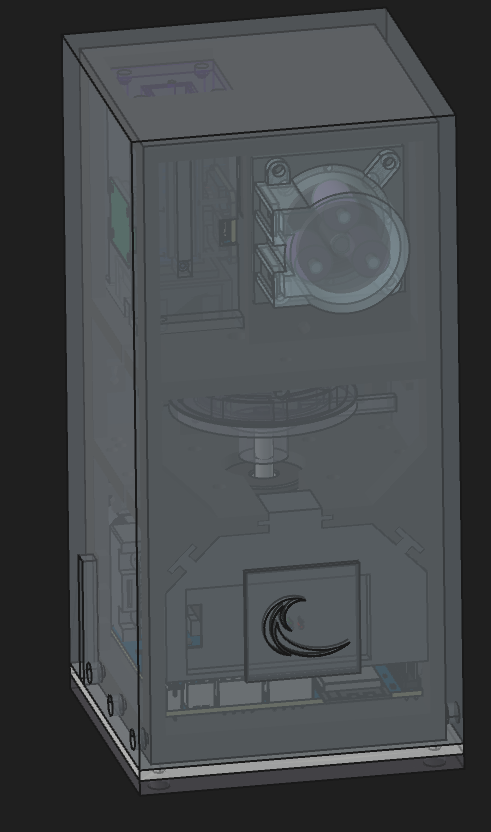
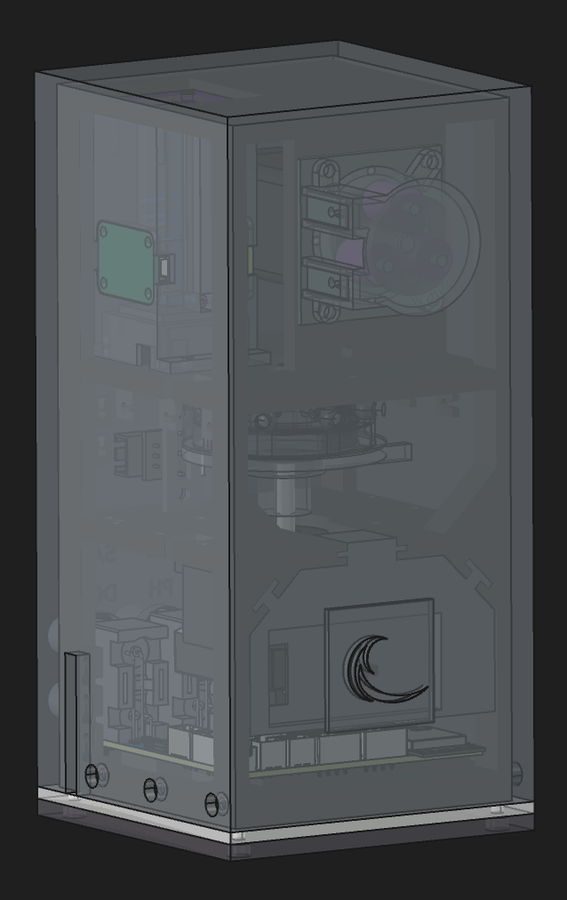
feat: swap in the new Wavie enclosure render
Replaces assets/wavie-hero.png with the updated CAD render showing the
internals through the enclosure and the logo on the front panel. Trimmed
to the product with a small margin and served at higher resolution
(567x900, was 491x832). Used in both places it appears — the hero and
the Wavie ecosystem card — and versioned to defeat image caching.

diff --git a/index.html b/index.html
@@ -314,7 +314,7 @@
         </p>
       </div>
       <div class="fade" style="transition-delay:.12s">
-        <img src="assets/wavie-hero.png" alt="Wavie automated reef tester" class="showcase" />
+        <img src="assets/wavie-hero.png?v=2" alt="Wavie automated reef tester" class="showcase" />
       </div>
     </div>
   </section>
@@ -661,7 +661,7 @@
         <div class="card featured p-8 flex flex-col hcard-wide">
           <div class="mb-5"><span class="badge-beta">Beta Waitlist Open</span></div>
           <div class="product-img mb-6"
-               style="background-image:url('assets/wavie-hero.png')"></div>
+               style="background-image:url('assets/wavie-hero.png?v=2')"></div>
           <h3 class="text-2xl font-bold mb-2">Wavie</h3>
           <p class="text-gray-400 text-sm leading-relaxed mb-6 flex-grow">
             The automated reef water tester. Six reagents, five live probes, and fully
